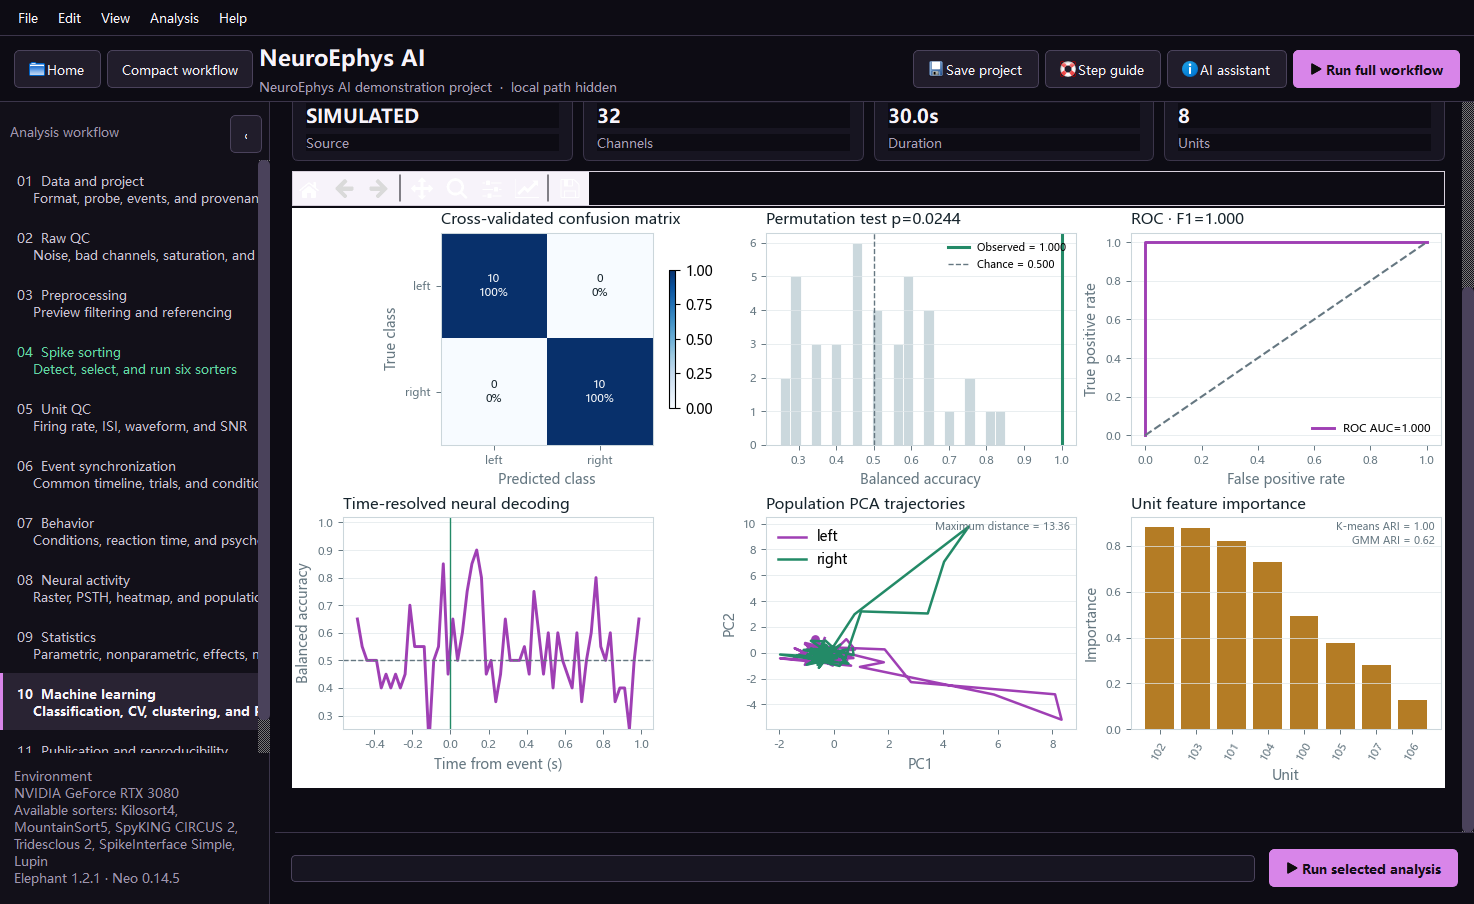
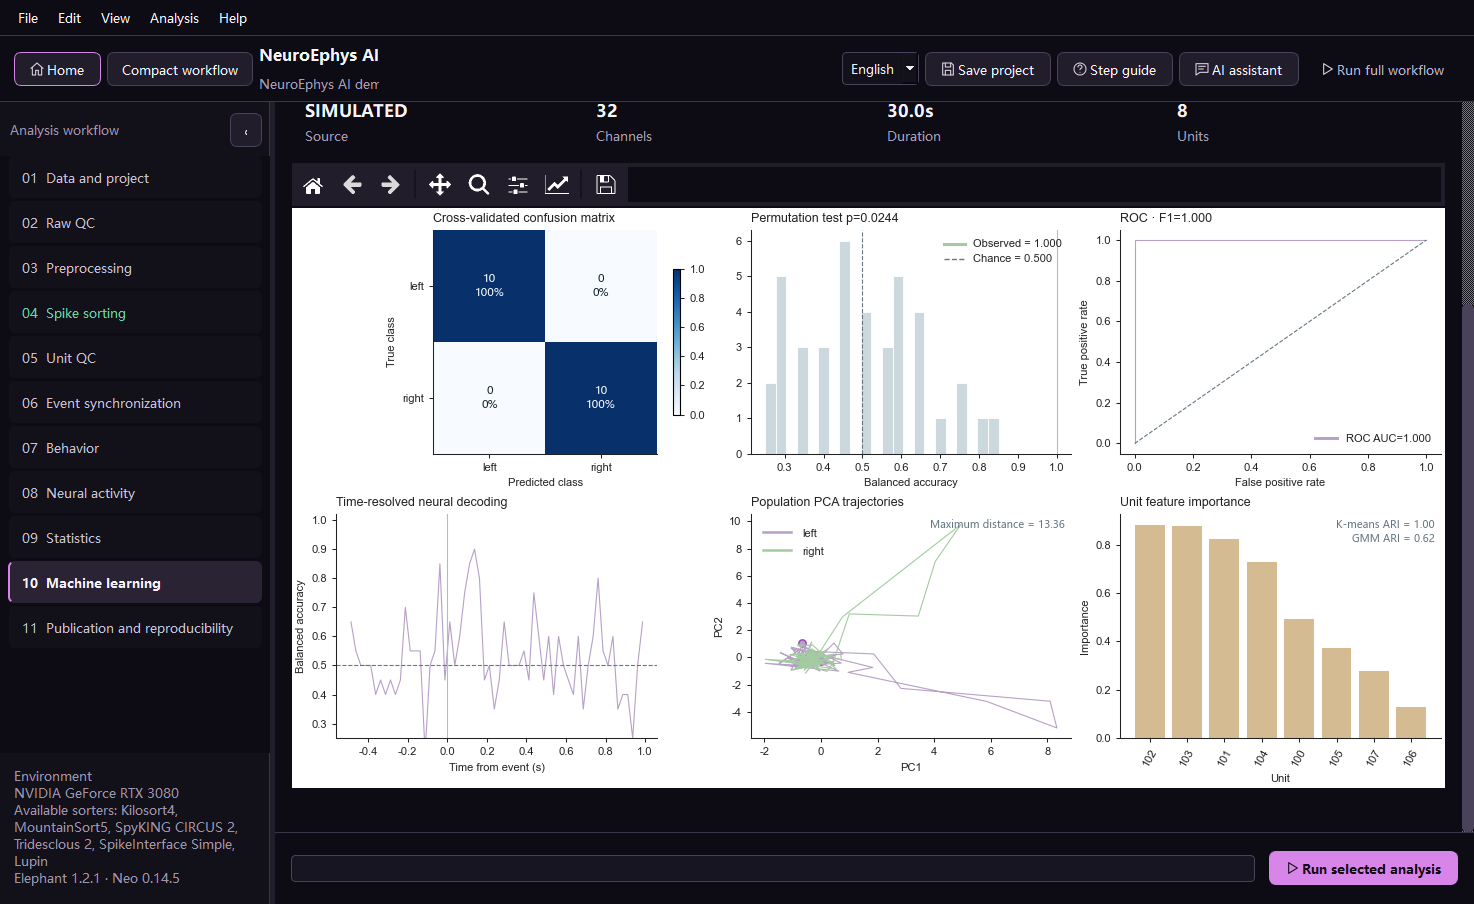
Improve Figure Studio preview and refresh product screenshots

diff --git a/neuroflow/figure_studio.py b/neuroflow/figure_studio.py
@@ -20,7 +20,7 @@ from matplotlib.ticker import (
     NullLocator,
     ScalarFormatter,
 )
-from PySide6.QtCore import Qt
+from PySide6.QtCore import Qt, QTimer
 from PySide6.QtGui import QColor, QPixmap
 from PySide6.QtWidgets import (
     QCheckBox,
@@ -234,12 +234,16 @@ class FigureStudioDialog(QDialog):
         editor_outer.addWidget(self.mode_tabs, 1)
         self.preview_label = QLabel()
         self.preview_label.setAlignment(Qt.AlignCenter)
-        self.preview_label.setFixedHeight(160)
+        self.preview_label.setFixedHeight(260)
         self.preview_label.setSizePolicy(QSizePolicy.Ignored, QSizePolicy.Fixed)
         self.preview_label.setStyleSheet(
             "QLabel { background: #ffffff; border: 1px solid #d6dfdc; }"
         )
         editor_outer.addWidget(self.preview_label, 0)
+        self._preview_resize_timer = QTimer(self)
+        self._preview_resize_timer.setSingleShot(True)
+        self._preview_resize_timer.setInterval(80)
+        self._preview_resize_timer.timeout.connect(self._update_preview)
         splitter.addWidget(editor_container)
         splitter.setStretchFactor(1, 1)
         root.addWidget(splitter, 1)
@@ -290,19 +294,22 @@ class FigureStudioDialog(QDialog):
             self.style_scope.button(0).setChecked(True)
         self._update_preview()
 
+    def showEvent(self, event) -> None:
+        super().showEvent(event)
+        self._preview_resize_timer.start()
+
+    def resizeEvent(self, event) -> None:
+        super().resizeEvent(event)
+        if hasattr(self, "_preview_resize_timer"):
+            self._preview_resize_timer.start()
+
     def _update_preview(self) -> None:
         """Render the edited figure into the dialog without changing its data."""
         buffer = BytesIO()
-        current = self.tree.currentItem()
-        target = current.data(0, Qt.UserRole) if current else None
-        axis = target if target in self.figure.axes else getattr(target, "axes", None)
-        extent = "tight"
-        if axis in self.figure.axes and axis.get_visible():
-            self.figure.draw_without_rendering()
-            box = axis.get_tightbbox(self.figure._get_renderer())
-            if box is not None:
-                extent = box.transformed(self.figure.dpi_scale_trans.inverted()).padded(0.05)
-        self.figure.savefig(buffer, format="png", dpi=140, bbox_inches=extent)
+        # Always retain the complete figure as context. The selected object is
+        # identified by the tree and heading; cropping it here made multi-panel
+        # layouts look like a tiny, isolated plot and concealed neighboring panels.
+        self.figure.savefig(buffer, format="png", dpi=140, bbox_inches="tight")
         pixmap = QPixmap()
         pixmap.loadFromData(buffer.getvalue(), "PNG")
         available = self.preview_label.size()

diff --git a/scripts/capture_product_screenshots.py b/scripts/capture_product_screenshots.py
@@ -50,6 +50,7 @@ def _capture(window, path: Path) -> None:
     path.parent.mkdir(parents=True, exist_ok=True)
     if not pixmap.save(str(path)):
         raise RuntimeError(f"Could not save screenshot: {path}")
+    print(f"Captured {path.name}", flush=True)
 
 
 def main() -> int:
@@ -59,8 +60,10 @@ def main() -> int:
     app = QApplication.instance() or QApplication([])
     app.setFont(QFont("Microsoft YaHei", 10))
     window = NeuroFlowWindow(workspace)
+    window.auto_stage_guides = False
     window.resize(1900, 1080)
     window._set_language("en_US")
+    window.home_workspace_hint.setText("NeuroEphys AI  /  Local workspace")
     window.show()
     _capture(window, output / "neuroflow-home.png")
     new_project = NewProjectDialog(workspace, window, "en_US")
@@ -319,9 +322,7 @@ def main() -> int:
         studio.tree.setCurrentItem(studio.tree.topLevelItem(1))
     studio.show()
     _capture(studio, output / "neuroflow-figure-studio.png")
-    studio.editor_scroll.verticalScrollBar().setValue(
-        int(studio.editor_scroll.verticalScrollBar().maximum() * 0.78)
-    )
+    studio.mode_tabs.setCurrentIndex(1)
     _capture(studio, output / "neuroflow-figure-studio-axes.png")
     studio.close()
     # The application correctly prompts before closing a dirty project. This
